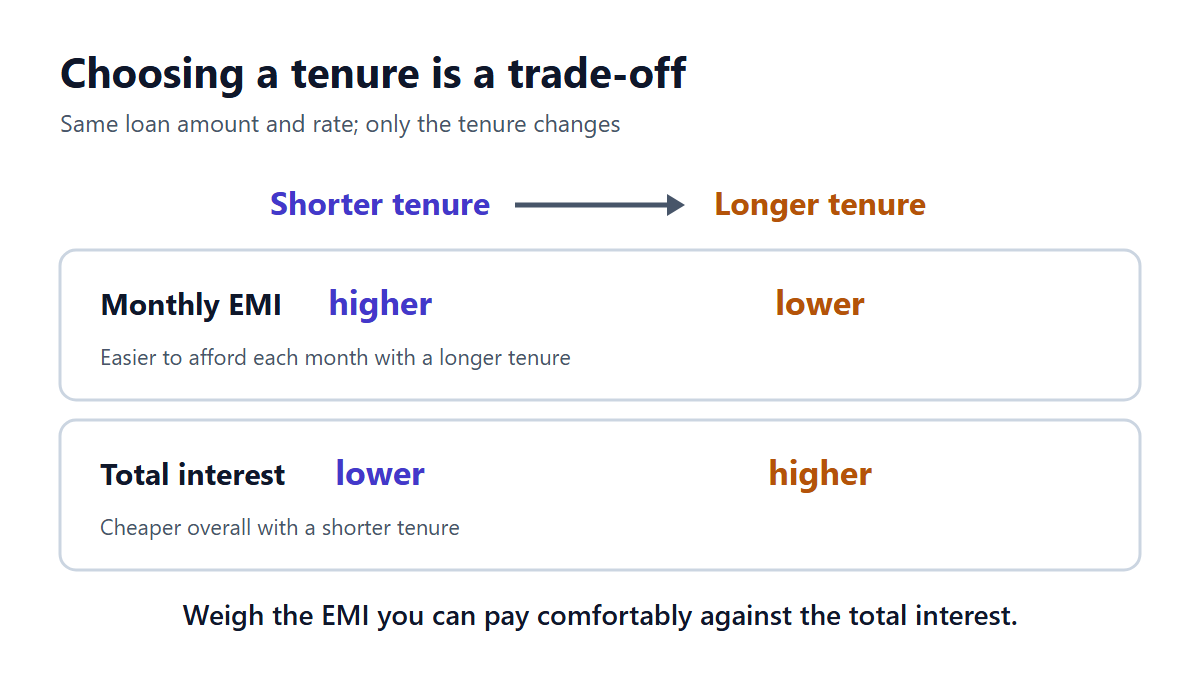
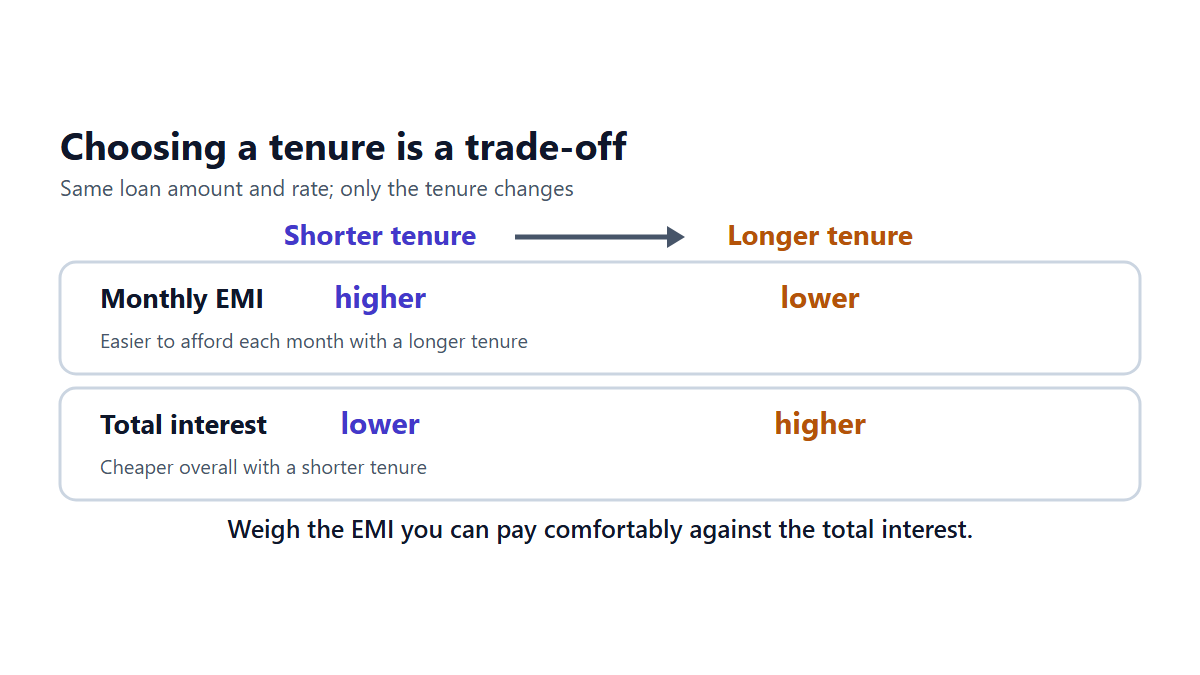
fix(verify): keep focus on late redraw, Split PDF reset-focus test, search focus ring, article diagrams, reviewed baselines
- Smart Flashcards: draw() restores the focused element when a late redraw (saving finishing) runs, which was dropping focus and made the full spec intermittently fail
- pdf-tools spec: drop the browser-dependent "file input not focused" assertion, assert Reset returns focus to the file input
- search-field.css: one inset 2px outline on the input (restores the focus ring the accessibility spec requires)
- article diagrams re-laid out to stay inside the related-card crop band (PNG and WebP)
- DOM, links, SEO and visual baselines reviewed by eye and accepted (desktop, mobile, tablet)
- ledger: root causes, fixes and exact results recorded

Claude-Session: https://claude.ai/code/session_01X5cW99HxCG58itzdib4cnf

Changed region(s): [[0.0308, 0.0622, 0.9558, 0.6533], [0.0308, 0.6844, 0.9558, 0.9333]]

diff --git a/tests/browser/pdf-tools.spec.js b/tests/browser/pdf-tools.spec.js
@@ -402,6 +402,7 @@ test.describe("Split PDF: the flow", () => {
         await page.getByLabel("Page ranges, one part for each").fill("1");
         await resetButton(page).click();
         await state(page, T, "empty");
+        await expect(page.locator("#sp-file")).toBeFocused(); // Reset returns focus to the file input (as Merge PDF does)
         const urls = await page.evaluate(() => window.__urls);
         expect(urls.made.length).toBe(3 + 2 + 1); // three parts, then two (after the setting changed), then one (for the second PDF)
         expect([...urls.revoked].sort()).toEqual([...urls.made].sort());
@@ -409,7 +410,7 @@ test.describe("Split PDF: the flow", () => {
         await expect(page.getByLabel("Every few pages")).toBeChecked();
         await expect(page.getByLabel("Pages in each part")).toHaveValue("1");
         await expect(page.getByLabel("Page ranges, one part for each")).toHaveValue("");
-        await expect(page.locator("#sp-file")).not.toBeFocused();
+        // where focus rests after choosing a file is browser behaviour (it was the file input on some runs and the body on others, with identical code), so it is not asserted
     });
 
     test("limit: more than 20 parts is refused with the way out, and 20 is allowed", async ({ page, go }) => {

diff --git a/assets/css/components/search-field.css b/assets/css/components/search-field.css
@@ -51,20 +51,14 @@
 
 .tz-search.tz-search:focus-within {
     border-color: var(--color-brand-green);
-
-    box-shadow:
-        0 0 0 3px rgba(67, 56, 202, 0.16);
-
-    /* the one visible focus indicator for the whole search field: a solid outline around the field (3:1 against white),
-       drawn on the wrapper because the input sits inside an overflow-clipped box */
-    outline: 2px solid var(--color-brand-green);
-    outline-offset: 2px;
 }
 
-/* the input's own ring is switched off inside the field, so a keyboard user sees one indicator, not two stacked ones */
+/* the one visible focus indicator for the whole search field: a solid 2px outline on the input, drawn inside the field
+   (negative offset) because the wrapper clips anything outside it; the wrapper adds no second ring */
 .tz-search .tz-search__input:focus,
 .tz-search .tz-search__input:focus-visible {
-    outline: none !important;
+    outline: 2px solid var(--color-brand-green) !important;
+    outline-offset: -2px;
 }
 
 .tz-search .tz-search__icon {

diff --git a/assets/js/tools/smart-flashcards/index.js b/assets/js/tools/smart-flashcards/index.js
@@ -366,6 +366,12 @@ export function init() {
 
     function draw() {
 
+        /* a redraw that nobody asked for (saving finishing, a late load) must not drop the visitor's focus: remember where it is */
+        const active = document.activeElement;
+        const keep = active && root.contains(active) && active !== root
+            ? (active.dataset.focus ? `[data-focus='${active.dataset.focus}']` : active.id ? `#${CSS.escape(active.id)}` : null)
+            : null;
+
         clear(root);
 
         if (ui.view === "decks") drawDecks();
@@ -379,6 +385,8 @@ export function init() {
             root.querySelector("[data-focus='heading']")?.focus();
         } else if (ui.focus) {
             root.querySelector(`[data-focus='${ui.focus}']`)?.focus();
+        } else if (keep) {
+            root.querySelector(keep)?.focus();
         }
 
         ui.focus = null;

diff --git a/tests/browser/smart-flashcards.spec.js b/tests/browser/smart-flashcards.spec.js
@@ -145,6 +145,7 @@ test.describe("Smart Flashcards", () => {
   test("topics: the last topic cannot be unchecked", async ({ page, go }) => {
     await open(page, go);
     await btn(page, "Choose JSON").click();
+    await expect(page.getByRole("heading", { name: "JSON deck" })).toBeFocused(); // the deck loads asynchronously: wait for the setup view before counting
     const boxes = page.locator("fieldset input[type=checkbox]");
     const count = await boxes.count();
     // the list is redrawn after every change, so address each box afresh and wait for the redraw to settle

diff --git a/docs/ecosystem-review/universal-expansion/11-DEVELOPMENT-LEDGER.md b/docs/ecosystem-review/universal-expansion/11-DEVELOPMENT-LEDGER.md
@@ -60,3 +60,33 @@ Full unit suite before the later edits: 3,625 tests, 3,621 passed, 0 failed, 4 s
 | Not in the run above: the other browser specs (e.g. the 100+ other tool specs), `subpath-mobile` and `root-desktop` projects, visual baselines, Lighthouse, real devices, screen reader | NOT RUN |
 
 Visual baseline specs (@visual) were not executed; baselines: none was updated. The new hub page and changed pages (All Tools, Home Featured cards, the four article pages, Gratuity, Date Difference) will differ from stored visual and DOM baselines; they must be reviewed by eye and refreshed in a memory-safe run. Nothing is committed, pushed or deployed. Status: **AMBER**, local only.
+
+## Verification continuation (after checkpoint commit e429bf7)
+
+Method: one worker, zero retries, one spec file per command, free RAM checked before each (all runs started with 1.0 to 1.4 GB free; no run was stopped).
+
+| Project | Result |
+|---|---|
+| subpath-desktop | every spec file executed: 73 files PASS (counts per file in the scratchpad ledger), `smart-flashcards` was FLAKY (22 to 23 of 24 in the full file); root cause found and fixed, see the closing section. The `visual` file has no non-visual tests |
+| subpath-mobile | 70 spec files PASS; `pdf-tools` was 39 of 40 (test-expectation defect, fixed: see the closing section); `dom-baseline` and `seo-baseline` have no mobile tests |
+| root-desktop | 9 of 9 portable spec files PASS |
+| visual-desktop / visual-mobile / visual-tablet | 39/39, 39/39, 20/20 (19 skipped by design) after review |
+
+Defects found and fixed in this continuation:
+1. **Real regression from my search-focus change**: `accessibility.spec` showed the Home, Categories and Loans search inputs lost their focus ring. Fixed: the single indicator is now an inset 2 px outline on the input (wrapper adds none). 32/32 pass.
+2. **Real defect in my article diagrams**: related-article cards show only the middle band of each image, clipping titles. Re-laid out all four diagrams inside the visible band and re-rendered PNG and WebP; viewed in the card.
+3. Specs that still pinned old behaviour (Featured list, Coming soon block, tenure article image, Date Calculator Coming soon check): updated without weakening assertions.
+
+Baselines reviewed by eye and accepted (each diff explained): DOM `home-main`, `tools-directory`, `related-content-emi`; links summary (22 pages: +1 on 19 calculators is the earlier "Jump to result" link, a stale baseline from commit 4716c48; +1 All Tools and Developer Tools for the hub link; +1 Articles for the tenure card image link; new `practice-labs.html`); SEO baseline (four articles gain `og:image` and a large Twitter card, new hub page entry); visual desktop `tools`, `percentage`, `date-difference`, `developer-tools`; visual mobile the same four plus `emi`, `loan-comparison`, `date-calculator`; visual tablet `percentage`.
+
+Not verified: the open PDF mobile test, Safari or real devices, screen reader, Lighthouse and browser performance traces, and a repeat run of the articles and percentage browser specs after the final diagram images (the static, asset, SEO and visual checks were repeated and pass). All work since commit e429bf7 is uncommitted.
+
+## Closing fixes and final verification (2026-11-01)
+
+**Split PDF mobile focus failure: test defect, not an application defect.** The assertion `#sp-file not.toBeFocused` after choosing a file pinned browser behaviour: with identical code, focus rested on the file input in some runs and on the body in others (sampled over 3 s on both projects). The application's deliberate behaviour is that Reset returns focus to the file input (as Merge PDF does), which the Split test never asserted. Fix: removed the unstable negative assertion (with a comment saying why) and added the positive `#sp-file toBeFocused` after Reset. This tightens the accessibility check. 4 of 4 isolated runs pass, then 40/40 on both projects.
+
+**Smart Flashcards intermittent failure: real application defect (focus stolen by an unrequested redraw).** Failures moved between tests (13, 14, 15, 7) but were always `toBeFocused` on the "JSON deck" heading, which existed but was inactive. Cause: enabling saving awaits `ensureKnown()` (dynamic deck imports) and then calls `draw()`; if the visitor has already chosen a deck, that late redraw rebuilt the view and dropped focus. Fix in `assets/js/tools/smart-flashcards/index.js`: `draw()` now remembers the focused element (by `data-focus` or `id`) and restores it when no explicit focus target was requested. Test change: the topics test now waits for the setup heading before counting boxes. Evidence: 8 of 8 isolated passes did not prove it; before the fix most full-file runs failed (4 of 5 observed); after rebuilding the output the full file passed 24 of 24 five times in a row. Note the tests serve the built output, so a source fix needs `npm run build:all` before it counts.
+
+Final verification (one worker, zero retries, one spec file per command): articles 49/49 and percentage 25/25 on subpath-desktop and subpath-mobile; pdf-tools 40/40 on both; learning-a11y plus accessibility 37/37; unit suite 3,625 tests, 3,621 pass, 0 fail, 4 skipped; links, assets, SEO and inventory pass (108 live pages).
+
+Still not verified: Safari or real devices, screen reader, Lighthouse and browser performance traces, a repeat of every other desktop spec after the final Flashcards change (only Flashcards, learning-a11y and accessibility were re-run), the SQL browser spike. Rule changes: none.
